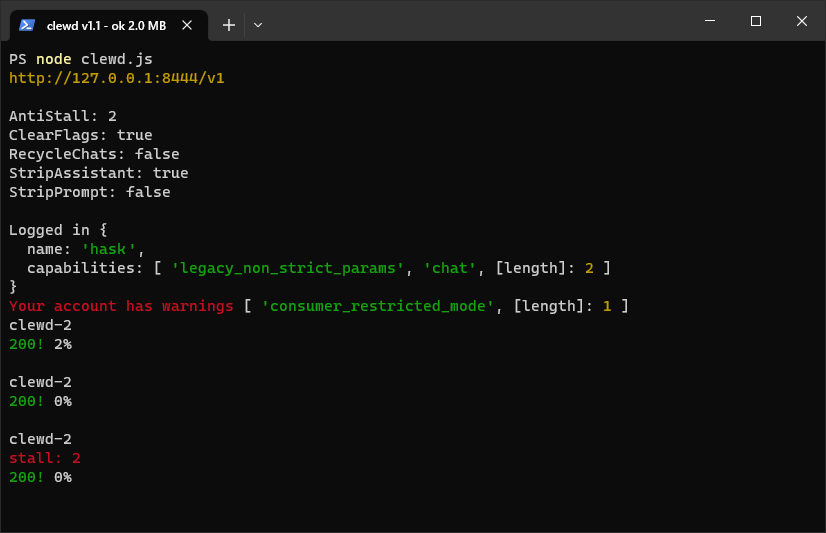
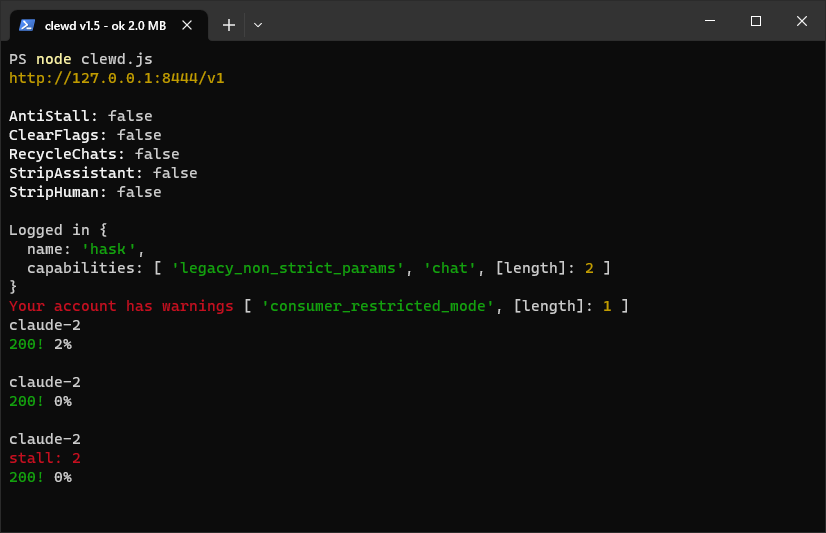
1.5 big update
main things
streaming on/off
request aborting (hopefully)

diff --git a/clewd.js b/clewd.js
@@ -4,16 +4,18 @@
  */
 const Cookie = '';
 
+
+
+
 /**
 ## EXPERIMENTAL
 
 ### SettingName: (DEFAULT)/opt1/opt2
 
  1. AntiStall: (false)/1/2
+    * pretty much useless when using streaming
     * 1 sends whatever was last when exceeding size (might send empty reply)
     * 2 returns the second reply by the assistant (the first is usually an apology)
-    * false is the same as original slaude2
-    * (try out 2 if you're getting empty messages)
 
  2. ClearFlags: (false)
     * possibly snake-oil
@@ -25,7 +27,7 @@ const Cookie = '';
     * might be good if your prompt/jailbreak itself ends with Assistant: 
 
  5. StripHuman: (false) 
-    * might(?) combo well with RecycleChats, avoids sending the whole prompt history to each message
+    * bad idea without RecycleChats, sends only your very last message
  * @preserve
  */ const Settings = {
     'AntiStall': false,
@@ -43,6 +45,7 @@ const Port = 8444;
  * If you know what you're doing, change the 2 MB on StallTrigger to what you want
  * @preserve
  */ const StallTriggerMax = 5242880;
+
 const StallTrigger = 2097152;
 
 const {'createServer': Server} = require('node:http');
@@ -51,9 +54,7 @@ const {'v4': genUUID} = require('uuid');
 const Decoder = new TextDecoder;
 const Encoder = new TextEncoder;
 
-const UUIDMap = {
-    'SHA1': 'uuid'
-};
+const UUIDMap = {};
 const cookies = {};
 let uuidTemp;
 let uuidOrg;
@@ -61,7 +62,8 @@ let uuidOrg;
 const AI = {
     'endPoint': () => Buffer.from([ 104, 116, 116, 112, 115, 58, 47, 47, 99, 108, 97, 117, 100, 101, 46, 97, 105 ]).toString(),
     'modelA': () => Buffer.from([ 99, 108, 97, 117, 100, 101, 45, 50 ]).toString(),
-    'modelB': () => Buffer.from([ 99, 108, 97, 117, 100, 101, 45, 105, 110, 115, 116, 97, 110, 116, 45, 49 ]).toString()
+    'modelB': () => Buffer.from([ 99, 108, 97, 117, 100, 101, 45, 105, 110, 115, 116, 97, 110, 116, 45, 49 ]).toString(),
+    'agent': () => Buffer.from([ 77, 111, 122, 105, 108, 108, 97, 47, 53, 46, 48, 32, 40, 87, 105, 110, 100, 111, 119, 115, 32, 78, 84, 32, 49, 48, 46, 48, 59, 32, 87, 105, 110, 54, 52, 59, 32, 120, 54, 52, 41, 32, 65, 112, 112, 108, 101, 87, 101, 98, 75, 105, 116, 47, 53, 51, 55, 46, 51, 54, 32, 40, 75, 72, 84, 77, 76, 44, 32, 108, 105, 107, 101, 32, 71, 101, 99, 107, 111, 41, 32, 67, 104, 114, 111, 109, 101, 47, 49, 49, 52, 46, 48, 46, 48, 46, 48, 32, 83, 97, 102, 97, 114, 105, 47, 53, 51, 55, 46, 51, 54, 32, 69, 100, 103, 47, 49, 49, 52, 46, 48, 46, 49, 56, 50, 51, 46, 55, 57 ]).toString()
 };
 
 const getCookies = () => Object.keys(cookies).map((name => `${name}=${cookies[name]};`)).join(' ').replace(/(\s+)$/gi, '');
@@ -74,6 +76,8 @@ const bytesToSize = (bytes = 0) => {
     const c = Math.min(Math.floor(Math.log(bytes) / Math.log(1024)), 4);
     return 0 === c ? `${bytes} ${b[c]}` : `${(bytes / 1024 ** c).toFixed(1)} ${b[c]}`;
 };
+
+const stallProtected = () => [ '1', '2' ].includes(Settings.AntiStall + '');
 
 const updateCookies = (cookieInfo, initial = false) => {
     let cookieNew = initial ? cookieInfo : cookieInfo.headers?.get('set-cookie');
@@ -90,15 +94,32 @@ const updateCookies = (cookieInfo, initial = false) => {
 };
 
 const setTitle = title => {
-    process.title = 'clewd v1.1 - ' + title;
+    process.title = 'clewd v1.5 - ' + title;
 };
 
-Server(((req, res) => {
+const Proxy = Server(((req, res) => {
     if ('/v1/complete' !== req.url) {
-        console.error(`Error: ${req.url} is unsupported`);
-        return res.end();
+        return res.writeHead(404, {
+            'Content-Type': 'application/json'
+        }).end(JSON.stringify({
+            'error': {
+                'message': '404 Not Found',
+                'type': 404,
+                'param': null,
+                'code': 500
+            }
+        }));
     }
     setTitle('recv...');
+    let recvReader;
+    const abortion = new AbortController;
+    const {'signal': signal} = abortion;
+    res.on('close', (async () => {
+        if (!signal.aborted && false === await (recvReader?.closed)) {
+            console.log('[31mabort[0m');
+            abortion.abort();
+        }
+    }));
     const buffer = [];
     req.on('data', (chunk => {
         buffer.push(chunk);
@@ -107,27 +128,41 @@ Server(((req, res) => {
         try {
             const body = JSON.parse(Buffer.concat(buffer).toString());
             let {'prompt': prompt} = body;
-            const model = AI.modelA();
+            if (!body.stream && '\n\nHuman: \n\nHuman: Hi\n\nAssistant: ' === prompt) {
+                return res.writeHead(200, {
+                    'Content-Type': 'application/json'
+                }).end(JSON.stringify({
+                    'error': false
+                }));
+            }
+            const model = /claude-v?2.*/.test(body.model) ? AI.modelA() : body.model;
+            !Settings.RecycleChats && Settings.StripHuman && console.log('[33mhaving [1mStripHuman[0m without [1mRecycleChats[0m, not recommended[0m');
+            model !== AI.modelA() && console.log(`[33mmodel[0m [1m${AI.modelA()}[0m [33mrecommended[0m`);
+            if (stallProtected() && body.stream) {
+                console.log('[33mwith streaming,[0m [1mAntiStall[0m [33mis disabled[0m');
+                Settings.AntiStall = false;
+            }
             /**
              * Ideally SillyTavern would expose a unique frontend conversation_uuid prop to localhost proxies
              * could set the name to a hash of it
              * then fetch /chat_conversations with 'GET' and find it
              * @preserve
              */            const firstAssistantIdx = prompt.indexOf('\n\nAssistant: ');
-            const lastAssistantIdx = prompt.lastIndexOf('\n\nAssistant: ');
-            const lastHumanIdx = prompt.lastIndexOf('\n\nHuman: ');
             const hash = Hash('sha1');
             hash.update(prompt.substring(0, firstAssistantIdx));
             const sha = Settings.RecycleChats ? hash.digest('hex') : '';
             const uuidOld = UUIDMap[sha];
+            const lastHumanIdx = prompt.lastIndexOf('\n\nHuman: ');
             Settings.RecycleChats && Settings.StripHuman && uuidOld && lastHumanIdx > -1 && (prompt = prompt.substring(lastHumanIdx, prompt.length));
+            const lastAssistantIdx = prompt.lastIndexOf('\n\nAssistant: ');
             Settings.StripAssistant && lastAssistantIdx > -1 && (prompt = prompt.substring(0, lastAssistantIdx));
             if (Settings.RecycleChats && uuidOld) {
                 uuidTemp = uuidOld;
                 console.log(model + ' r');
             } else {
                 uuidTemp = genUUID().toString();
-                const reqC = await fetch(`${AI.endPoint()}/api/organizations/${uuidOrg}/chat_conversations`, {
+                const fetchAPI = await fetch(`${AI.endPoint()}/api/organizations/${uuidOrg}/chat_conversations`, {
+                    'signal': signal,
                     'headers': {
                         'Cookie': getCookies(),
                         'Content-Type': 'application/json'
@@ -138,11 +173,16 @@ Server(((req, res) => {
                         'name': sha
                     })
                 });
-                updateCookies(reqC);
+                updateCookies(fetchAPI);
                 console.log('' + model);
                 UUIDMap[sha] = uuidTemp;
             }
-            const reqC = await fetch(AI.endPoint() + '/api/append_message', {
+            let recvStalled;
+            let recvLength = 0;
+            let validChunk;
+            let recvBuffer = [];
+            const fetchAPI = await fetch(AI.endPoint() + '/api/append_message', {
+                'signal': signal,
                 'headers': {
                     'Cookie': getCookies(),
                     'Content-Type': 'application/json'
@@ -150,6 +190,7 @@ Server(((req, res) => {
                 'method': 'POST',
                 'body': JSON.stringify({
                     'completion': {
+                        'incremental': true === body.stream,
                         'prompt': prompt,
                         'timezone': 'America/New_York',
                         'model': model
@@ -160,63 +201,92 @@ Server(((req, res) => {
                     'attachments': []
                 })
             });
-            updateCookies(reqC);
-            let recvLength = 0;
-            let lastChunk;
-            for await (const chunk of reqC.body) {
+            updateCookies(fetchAPI);
+            recvReader = fetchAPI.body?.getReader();
+            do {
+                const {'done': done, 'value': chunk} = await recvReader.read();
                 recvLength += chunk?.length || 0;
-                lastChunk = chunk;
-                const stalling = Settings.AntiStall && recvLength >= StallTrigger;
-                const decodedChunk = Decoder.decode(chunk);
-                setTitle(`recv ${stalling ? '(s)' : ''} ${bytesToSize(recvLength)}`);
-                if (stalling) {
+                setTitle(`recv ${body.stream ? '(s)' : ''} ${bytesToSize(recvLength)}`);
+                if (validChunk) {
+                    break;
+                }
+                if (null != chunk) {
+                    body.stream && res.write(chunk);
+                    recvBuffer.push(chunk);
+                    console.log(Decoder.decode(chunk));
+                }
+                if (done) {
+                    330 === recvLength && console.log('[33mpossible hard-censor[0m');
+                    break;
+                }
+                recvStalled = !validChunk && recvLength >= StallTrigger;
+                if (stallProtected() && recvStalled) {
                     try {
-                        const triggerExceeded = recvLength >= Math.min(StallTriggerMax, 2 * StallTrigger);
-                        if (Settings.AntiStall < 2 || triggerExceeded) {
-                            console.log(`[31mstall: ${triggerExceeded ? 'max' : '1'}[0m`);
+                        const triggerEmergency = recvLength >= Math.min(StallTriggerMax, 2 * StallTrigger);
+                        if (Settings.AntiStall + '' == '1' || triggerEmergency) {
+                            console.log(`[31mstall: ${triggerEmergency ? 'max' : '1'}[0m`);
+                            abortion.abort('stall 1');
                             break;
                         }
-                        const chunkFixed = decodedChunk.replace(/^data: {/gi, '{').replace(/\s+$/, '');
+                        const chunkFixed = Decoder.decode(chunk).replace(/^data: {/gi, '{').replace(/\s+$/, '');
                         const chunkParsed = JSON.parse(chunkFixed);
-                        chunkParsed.completion = chunkParsed.completion.replace(/\n{2}A:[ ]{1}/gi, '\n\nAssistant: ').replace(/\n{2}H:[ ]{1}/gi, '\n\nHuman: ');
                         const secondCompletionAssistantIdx = chunkParsed.completion.indexOf('\n\nAssistant: ', chunkParsed.completion.indexOf('\n\nAssistant: ') + 1);
                         if (secondCompletionAssistantIdx < 0) {
                             throw Error('Invalid completion');
                         }
-                        chunkParsed.completion = chunkParsed.completion.substring(secondCompletionAssistantIdx, chunkParsed.completion.length);
+                        chunkParsed.completion = chunkParsed.completion.substring(secondCompletionAssistantIdx + 13, chunkParsed.completion.length);
                         const completionHumanIdx = chunkParsed.completion.indexOf('\n\nHuman: ');
                         if (completionHumanIdx < 0) {
                             throw Error('Invalid completion');
                         }
-                        chunkParsed.completion = chunkParsed.completion.substring(13, completionHumanIdx);
+                        chunkParsed.completion = chunkParsed.completion.substring(0, completionHumanIdx);
                         chunkParsed.stop || (chunkParsed.stop = '\n\nHuman:');
-                        lastChunk = Encoder.encode(`data: ${JSON.stringify(chunkParsed)}\n\n`);
+                        validChunk = Encoder.encode(`data: ${JSON.stringify(chunkParsed)}\n\n`);
+                        abortion.abort('stall 2');
                         console.log('[31mstall: 2[0m');
                         break;
                     } catch (err) {}
                 }
+            } while (!signal.aborted && !validChunk);
+            Buffer.concat(recvBuffer);
+            const lastChunk = recvBuffer.slice(-1)?.[0];
+            const chosenChunk = validChunk || lastChunk;
+            setTitle(`${fetchAPI.status}! ${bytesToSize(recvLength)}`);
+            console.log(`${200 == fetchAPI.status ? '[32m' : '[33m'}${fetchAPI.status}![0m ${Math.round((chosenChunk?.length || 1) / recvLength * 100)}%\n`);
+            if (200 !== fetchAPI.status) {
+                res.writeHead(fetchAPI.status);
+                res.write(Buffer.concat(recvBuffer));
+                return res.end();
             }
-            setTitle('ok ' + bytesToSize(recvLength));
-            console.log(`${200 == reqC.status ? '[32m' : '[33m'}${reqC.status}![0m ${Math.round((lastChunk?.length || 1) / recvLength * 100)}%\n`);
-            res.end(lastChunk);
+            if (body.stream) {
+                return res.end();
+            }
+            const chunkPlain = Decoder.decode(chosenChunk).replace(/^data: {/gi, '{').replace(/\s+$/, '');
+            console.log(chunkPlain);
+            res.writeHead(200, {
+                'Content-Type': 'application/json'
+            }).end(chunkPlain);
         } catch (err) {
-            console.error('Error: ' + err.message);
-            console.error(err.stack);
+            if ('AbortError' === err.name) {
+                return res?.end();
+            }
+            console.error('clewd API error:\n%o', err);
             res.writeHead(500, {
                 'Content-Type': 'application/json'
-            });
-            res.end(JSON.stringify({
+            }).end(JSON.stringify({
                 'error': {
-                    'message': err.message,
-                    'type': err.code,
+                    'message': err.message || err.name,
+                    'type': err.type || err.code || err.name,
                     'param': null,
                     'code': 500
                 }
             }));
         }
     }));
-})).listen(Port, Ip, (async () => {
-    console.log(`[33mhttp://${Ip}:${Port}/v1[0m\n\n${Object.keys(Settings).map(((setting, idx) => `${setting}: ${Settings[setting]}`)).sort().join('\n')}\n`);
+}));
+
+Proxy.listen(Port, Ip, (async () => {
+    console.log(`[33mhttp://${Ip}:${Port}/v1[0m\n\n${Object.keys(Settings).map((setting => `[1m${setting}:[0m ${Settings[setting]}`)).sort().join('\n')}\n`);
     const accReq = await fetch(AI.endPoint() + '/api/organizations', {
         'method': 'GET',
         'headers': {
@@ -267,4 +337,8 @@ Server(((req, res) => {
         (await convReq.json()).filter((chat => chat.name.length > 0)).forEach((chat => UUIDMap[chat.name] = chat.uuid));
         updateCookies(convReq);
     }
+}));
+
+Proxy.on('error', (err => {
+    console.error('Proxy error\n%o', err);
 }));

diff --git a/README.md b/README.md
@@ -26,10 +26,9 @@ nodejs>=19.8.*
 ### SettingName: (DEFAULT)/opt1/opt2
 
  1. AntiStall: (false)/1/2
+    * pretty much useless when using streaming
     * 1 sends whatever was last when exceeding size (might send empty reply)
     * 2 returns the second reply by the assistant (the first is usually an apology)
-    * false is the same as original slaude2 (sometimes stall, sometimes empty reply)
-    * (try out 2 if you're getting empty messages)
 
  2. ClearFlags: (false)
     * possibly snake-oil
@@ -41,6 +40,6 @@ nodejs>=19.8.*
     * might be good if your prompt/jailbreak itself ends with Assistant: 
 
  5. StripHuman: (false) 
-    * might(?) combo well with RecycleChats, avoids sending the whole prompt history to each message
+    * bad idea without RecycleChats, sends only your very last message
 
 > [Download](https://gitgud.io/ahsk/clewd/-/archive/master/clewd-master.zip)
